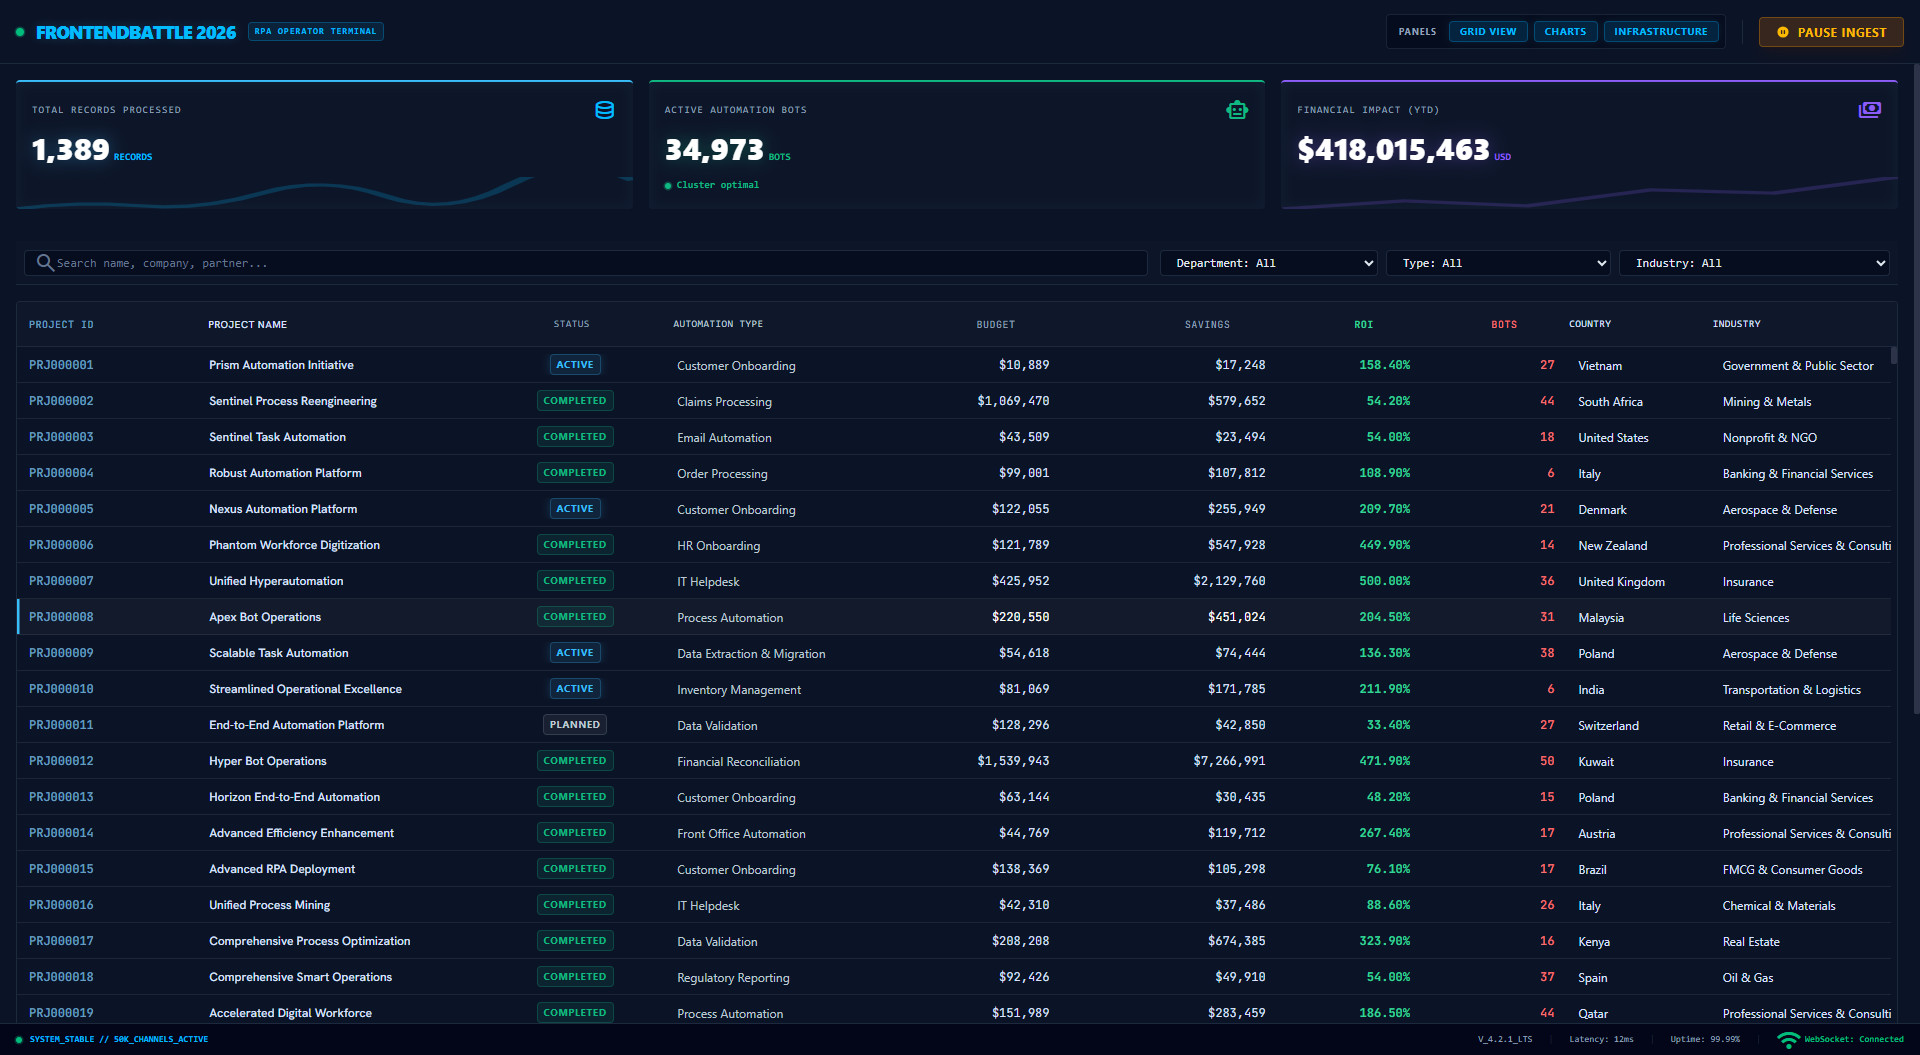
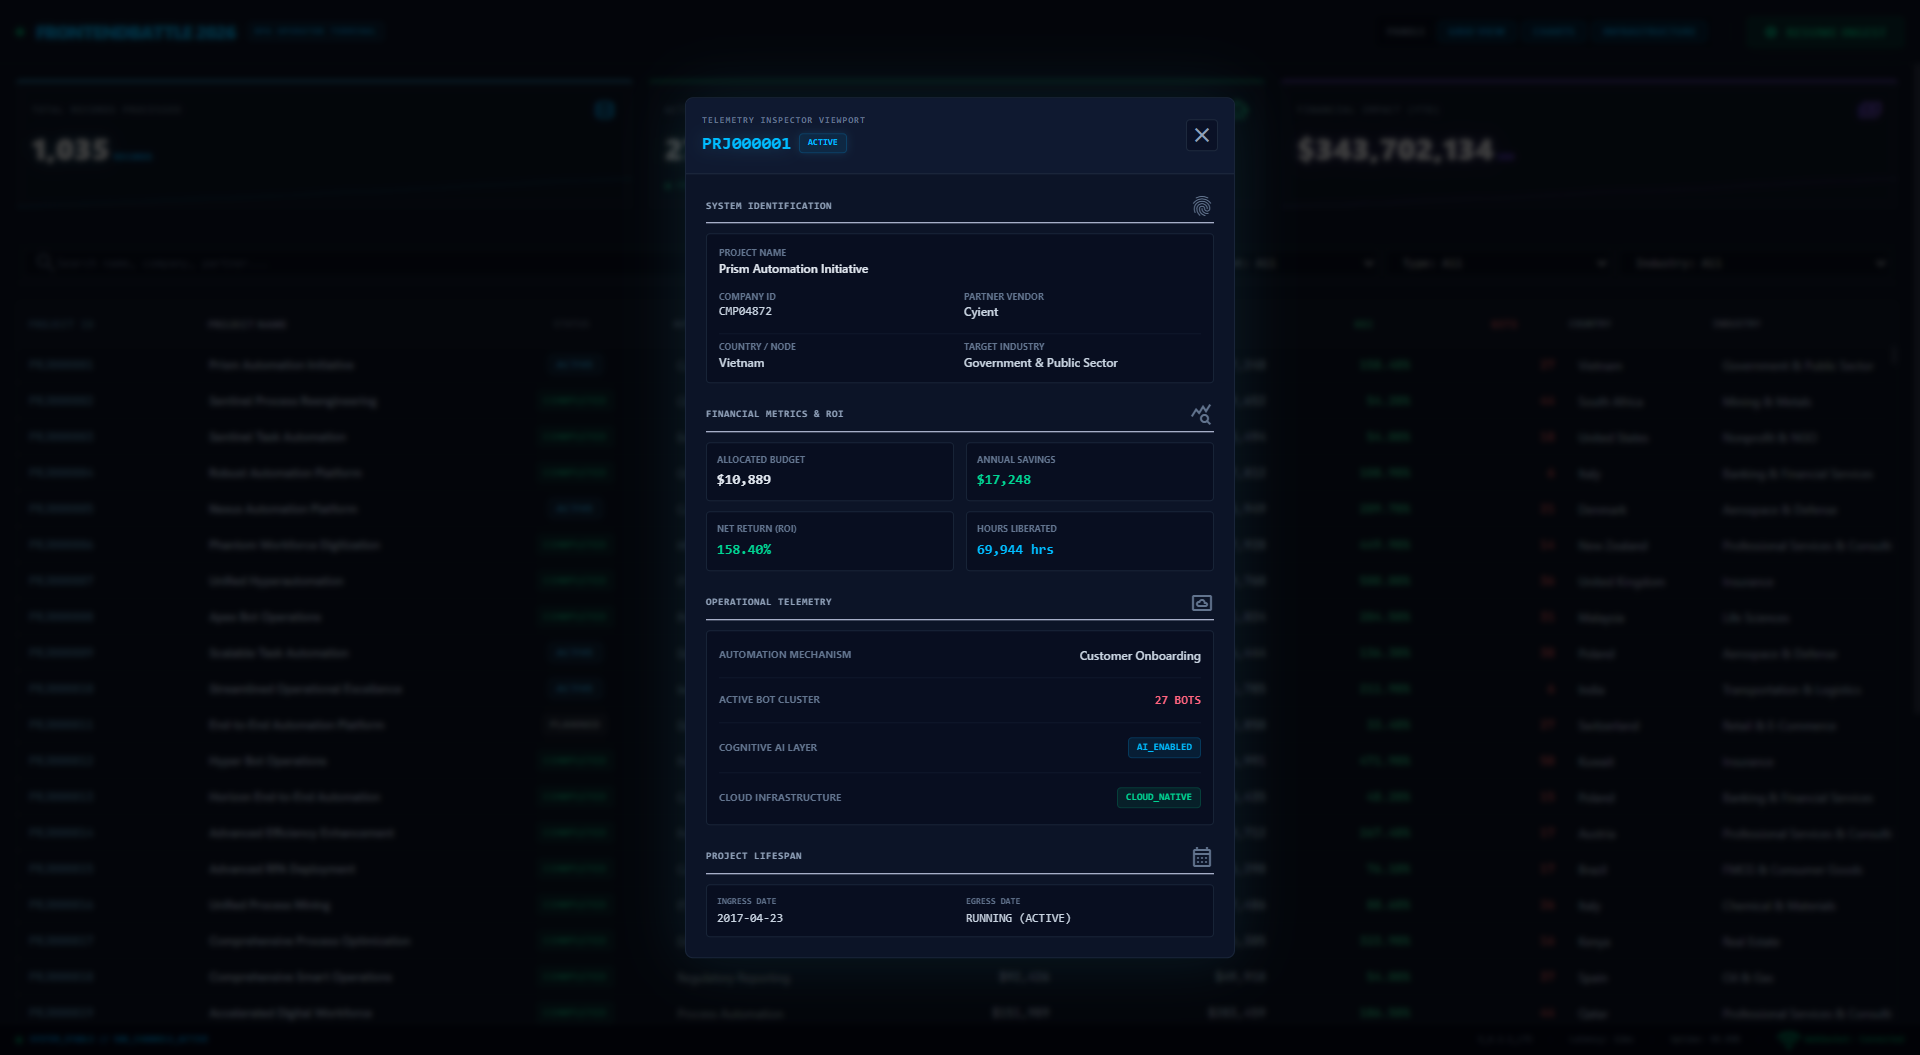
style: replace inspector sidebar panel with centered pop-up card

diff --git a/src/components/InspectorPanel.jsx b/src/components/InspectorPanel.jsx
@@ -20,13 +20,13 @@ export default function InspectorPanel({ rowData, onClose }) {
       {/* Backdrop */}
       <div 
         onClick={onClose} 
-        className="fixed inset-0 bg-black/70 z-[90] backdrop-blur-[2px] transition-opacity duration-200"
+        className="fixed inset-0 bg-black/75 z-[90] backdrop-blur-[3px] transition-opacity duration-200"
       />
 
-      {/* Slide-out Panel */}
-      <div className="fixed inset-y-0 right-0 z-[100] w-full max-w-[460px] bg-[#0b1326] border-l border-slate-800 shadow-[0_0_50px_rgba(0,0,0,0.85)] flex flex-col h-full select-none">
+      {/* Center Popup Card */}
+      <div className="fixed top-1/2 left-1/2 -translate-x-1/2 -translate-y-1/2 z-[100] w-[95vw] max-w-[550px] max-h-[85vh] bg-[#0c1427] border border-slate-800/80 rounded-lg shadow-[0_0_60px_rgba(56,189,248,0.12)] flex flex-col overflow-hidden select-none">
         
-        {/* Panel Header */}
+        {/* Header */}
         <div className="flex justify-between items-center p-4 border-b border-slate-800 bg-[#0f1930] shrink-0">
           <div>
             <span className="font-mono text-[9px] uppercase tracking-widest text-slate-500 font-bold block mb-0.5">
@@ -50,16 +50,16 @@ export default function InspectorPanel({ rowData, onClose }) {
           </button>
         </div>
 
-        {/* Panel Body */}
-        <div className="flex-1 overflow-y-auto p-5 flex flex-col gap-6">
+        {/* Scrollable Body */}
+        <div className="flex-1 overflow-y-auto p-5 flex flex-col gap-5">
           
           {/* Section 1: Identification */}
-          <div className="flex flex-col gap-3">
-            <div className="border-b border-slate-800 pb-1 flex items-center justify-between">
+          <div className="flex flex-col gap-2.5">
+            <div className="border-b border-slate-850 pb-1 flex items-center justify-between">
               <span className="text-[10px] font-bold uppercase tracking-wider text-slate-400 font-mono">
                 System Identification
               </span>
-              <span className="material-symbols-outlined text-[14px] text-slate-500">fingerprint</span>
+              <span className="material-symbols-outlined text-[13px] text-slate-500">fingerprint</span>
             </div>
             
             <div className="flex flex-col gap-2 bg-slate-950/45 p-3 rounded border border-slate-800/80">
@@ -91,22 +91,22 @@ export default function InspectorPanel({ rowData, onClose }) {
           </div>
 
           {/* Section 2: Financial Impact */}
-          <div className="flex flex-col gap-3">
-            <div className="border-b border-slate-800 pb-1 flex items-center justify-between">
+          <div className="flex flex-col gap-2.5">
+            <div className="border-b border-slate-850 pb-1 flex items-center justify-between">
               <span className="text-[10px] font-bold uppercase tracking-wider text-slate-400 font-mono">
                 Financial Metrics & ROI
               </span>
-              <span className="material-symbols-outlined text-[14px] text-slate-500">query_stats</span>
+              <span className="material-symbols-outlined text-[13px] text-slate-500">query_stats</span>
             </div>
 
             <div className="grid grid-cols-2 gap-3">
-              <div className="bg-slate-950/45 p-3 rounded border border-slate-800/80 flex flex-col justify-between">
+              <div className="bg-slate-950/45 p-2.5 rounded border border-slate-800/80 flex flex-col justify-between">
                 <span className="text-[9px] uppercase text-slate-500 font-bold">Allocated Budget</span>
                 <span className="font-mono text-sm text-slate-200 mt-1 font-bold">
                   {fmtCurrency(rowData.budget_usd)}
                 </span>
               </div>
-              <div className="bg-slate-950/45 p-3 rounded border border-slate-800/80 flex flex-col justify-between">
+              <div className="bg-slate-950/45 p-2.5 rounded border border-slate-800/80 flex flex-col justify-between">
                 <span className="text-[9px] uppercase text-slate-500 font-bold">Annual Savings</span>
                 <span className="font-mono text-sm text-emerald-400 mt-1 font-bold">
                   {fmtCurrency(rowData.annual_savings_usd)}
@@ -115,13 +115,13 @@ export default function InspectorPanel({ rowData, onClose }) {
             </div>
 
             <div className="grid grid-cols-2 gap-3">
-              <div className="bg-slate-950/45 p-3 rounded border border-slate-800/80 flex flex-col justify-between">
+              <div className="bg-slate-950/45 p-2.5 rounded border border-slate-800/80 flex flex-col justify-between">
                 <span className="text-[9px] uppercase text-slate-500 font-bold">Net Return (ROI)</span>
                 <span className={`font-mono text-sm mt-1 font-extrabold ${isRoiPositive ? 'text-emerald-400' : 'text-rose-400'}`}>
                   {fmtPercent(rowData.roi_percent)}
                 </span>
               </div>
-              <div className="bg-slate-950/45 p-3 rounded border border-slate-800/80 flex flex-col justify-between">
+              <div className="bg-slate-950/45 p-2.5 rounded border border-slate-800/80 flex flex-col justify-between">
                 <span className="text-[9px] uppercase text-slate-500 font-bold">Hours Liberated</span>
                 <span className="font-mono text-sm text-sky-400 mt-1 font-bold">
                   {fmtNumber(rowData.employee_hours_saved)} hrs
@@ -131,12 +131,12 @@ export default function InspectorPanel({ rowData, onClose }) {
           </div>
 
           {/* Section 3: Telemetry Configuration */}
-          <div className="flex flex-col gap-3">
-            <div className="border-b border-slate-800 pb-1 flex items-center justify-between">
+          <div className="flex flex-col gap-2.5">
+            <div className="border-b border-slate-850 pb-1 flex items-center justify-between">
               <span className="text-[10px] font-bold uppercase tracking-wider text-slate-400 font-mono">
                 Operational Telemetry
               </span>
-              <span className="material-symbols-outlined text-[14px] text-slate-500">settings_system_daydream</span>
+              <span className="material-symbols-outlined text-[13px] text-slate-500">settings_system_daydream</span>
             </div>
 
             <div className="flex flex-col gap-2.5 bg-slate-950/45 p-3 rounded border border-slate-800/80">
@@ -167,15 +167,15 @@ export default function InspectorPanel({ rowData, onClose }) {
           </div>
 
           {/* Section 4: Timeline */}
-          <div className="flex flex-col gap-3">
-            <div className="border-b border-slate-800 pb-1 flex items-center justify-between">
+          <div className="flex flex-col gap-2.5">
+            <div className="border-b border-slate-850 pb-1 flex items-center justify-between">
               <span className="text-[10px] font-bold uppercase tracking-wider text-slate-400 font-mono">
                 Project Lifespan
               </span>
-              <span className="material-symbols-outlined text-[14px] text-slate-500">calendar_month</span>
+              <span className="material-symbols-outlined text-[13px] text-slate-500">calendar_month</span>
             </div>
 
-            <div className="grid grid-cols-2 gap-3 bg-slate-950/45 p-3 rounded border border-slate-800/80 font-mono">
+            <div className="grid grid-cols-2 gap-3 bg-slate-950/45 p-2.5 rounded border border-slate-800/80 font-mono">
               <div className="flex flex-col">
                 <span className="text-[9px] uppercase text-slate-500 font-bold">Ingress Date</span>
                 <span className="text-xs text-slate-300 mt-0.5">{rowData.start_date || '—'}</span>